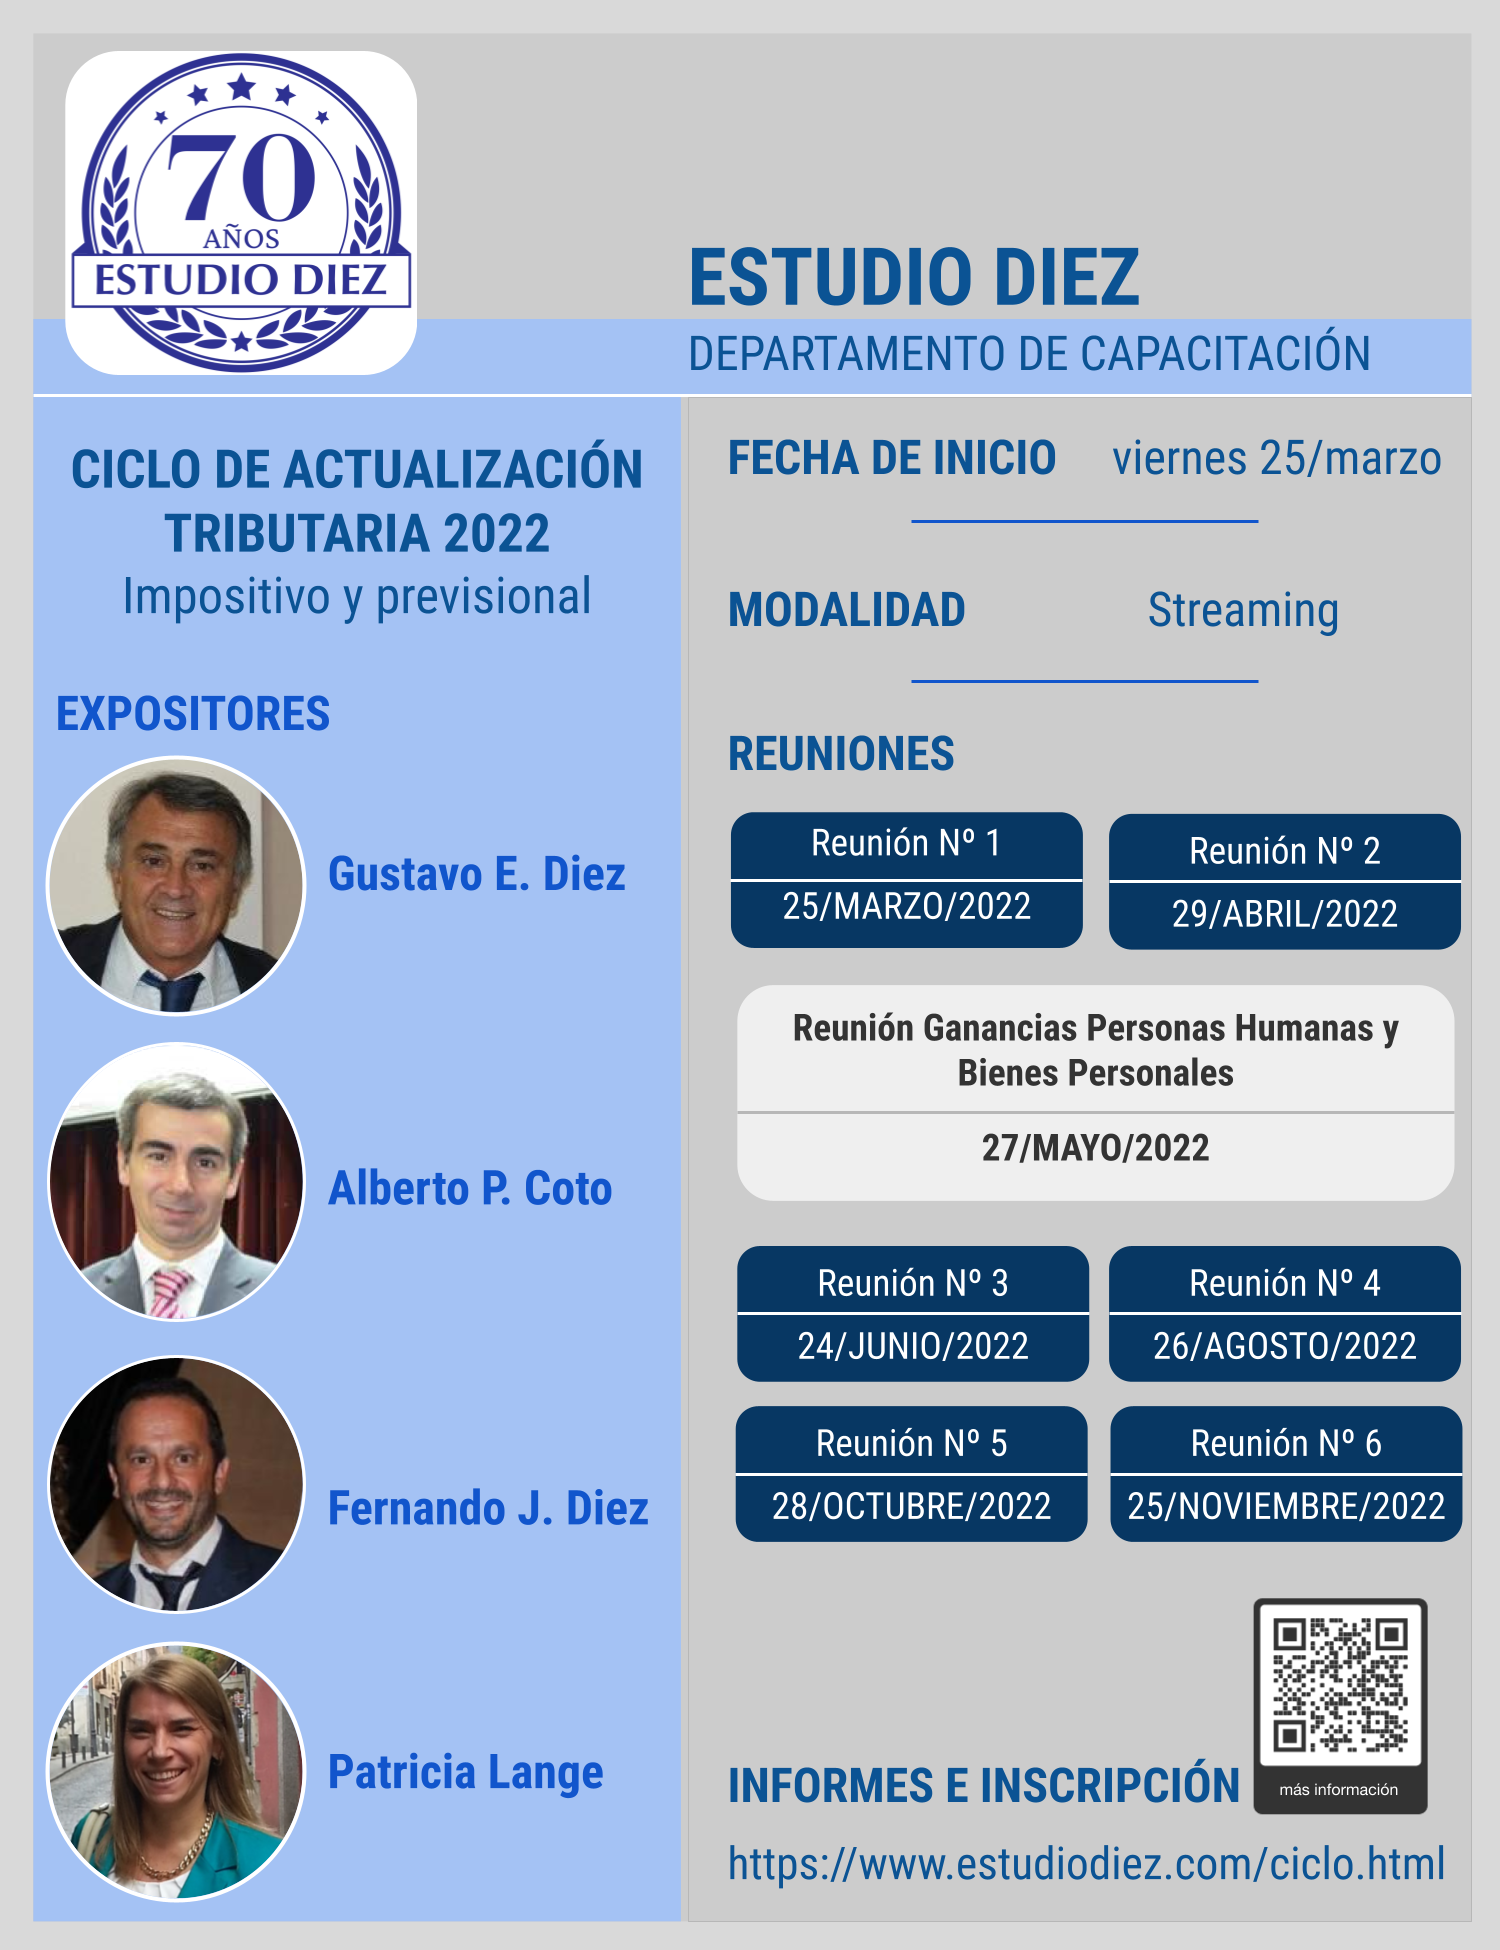
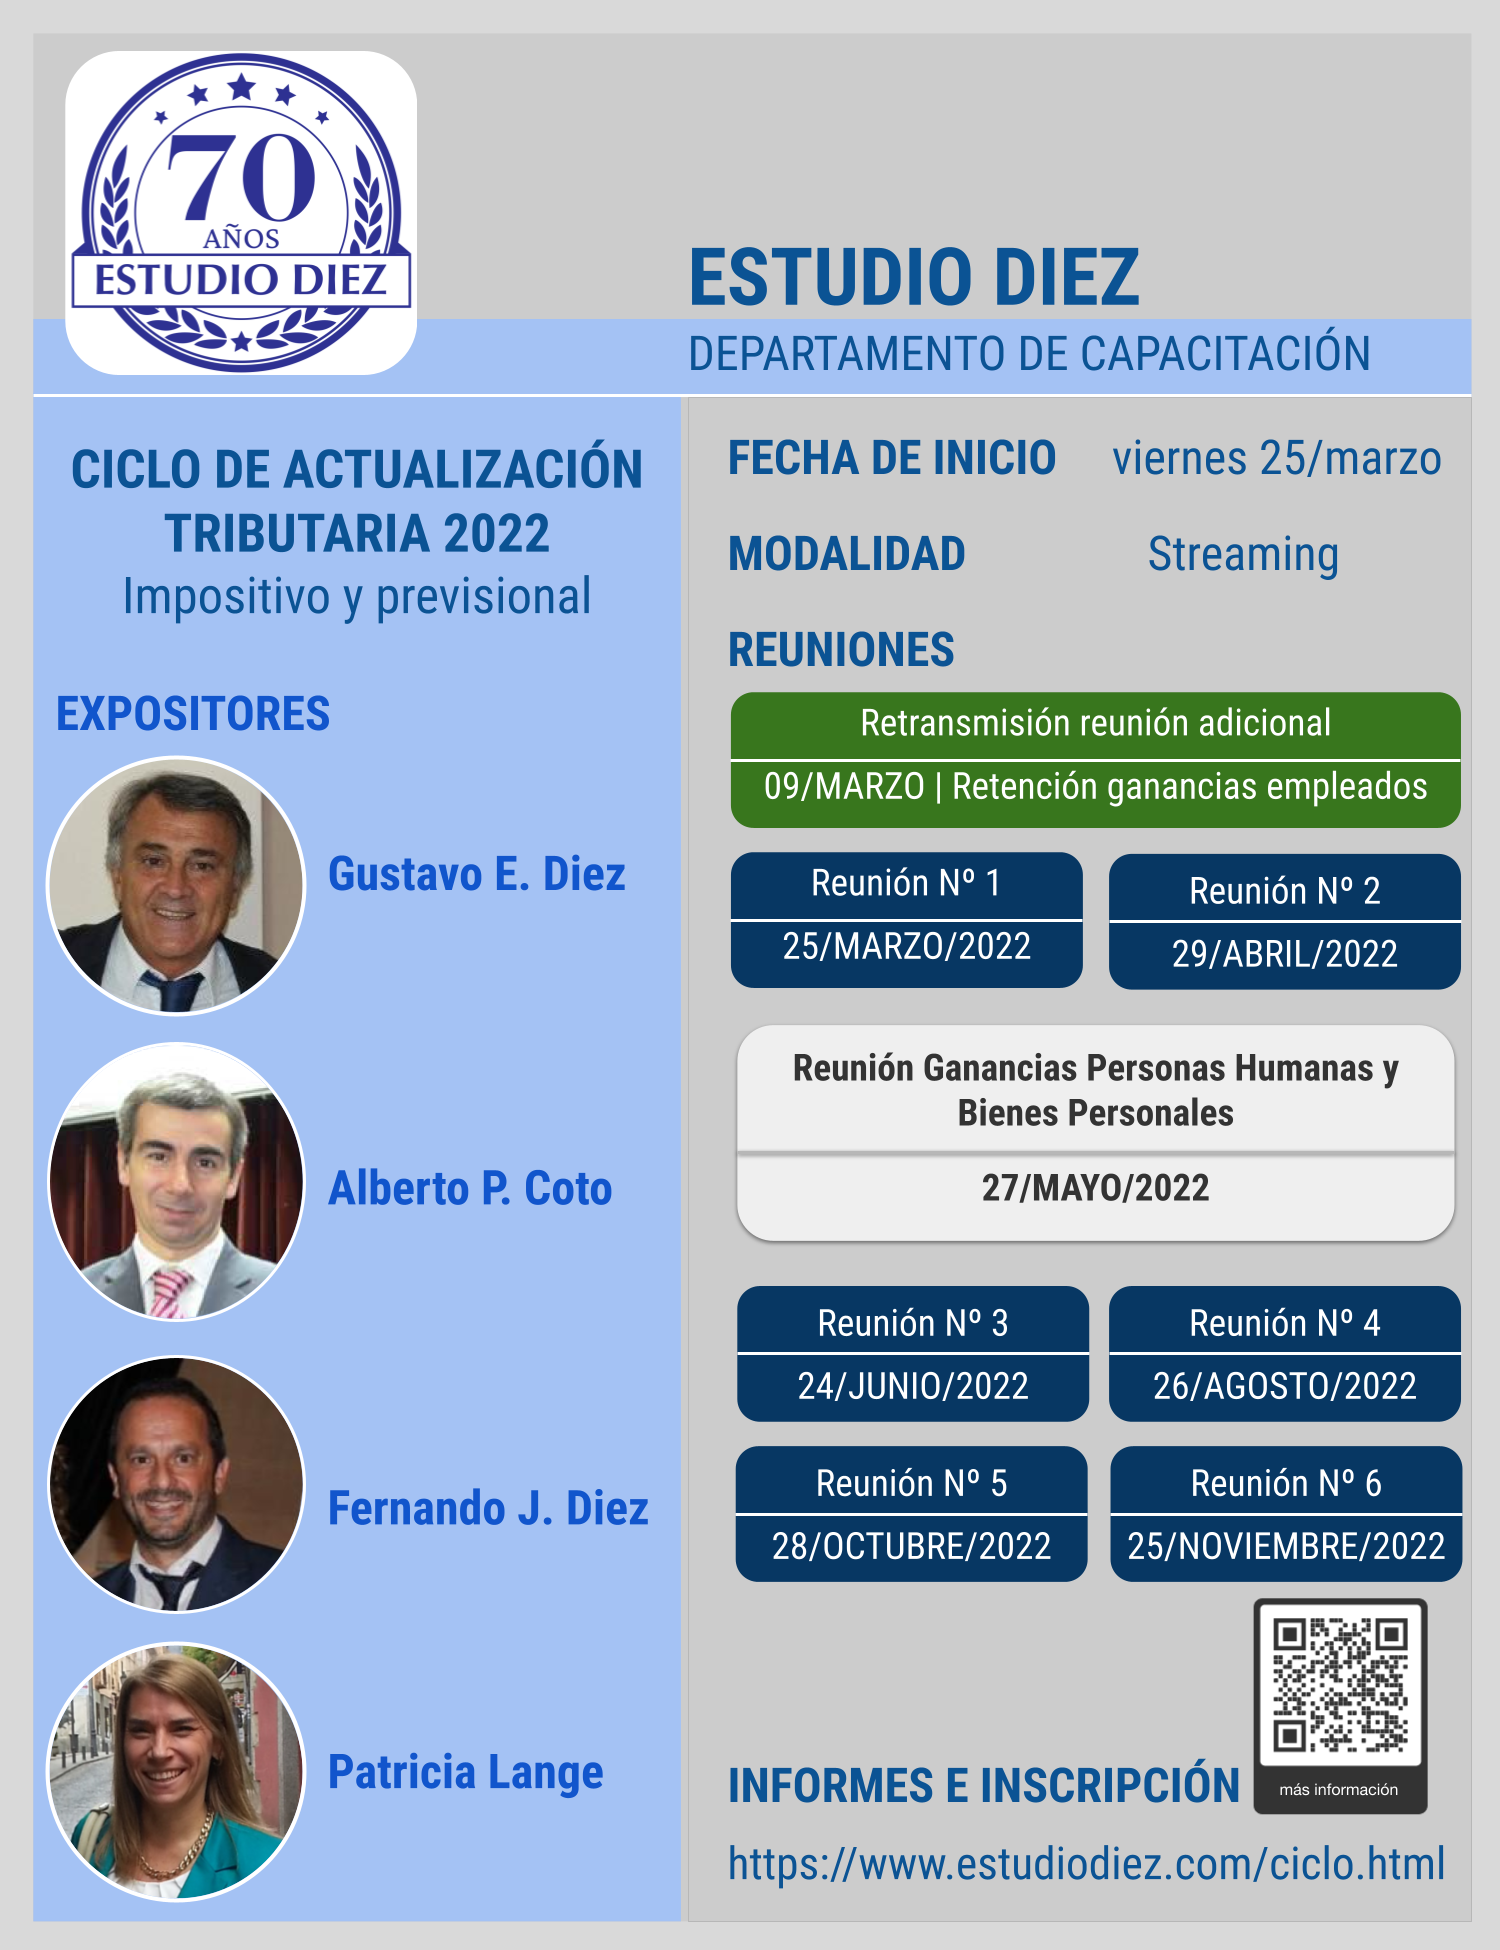
Fin reunión adicional 09-marzo-2022

Changed region(s): [[0.46, 0.2769, 0.9813, 0.8308]]

diff --git a/suscriptores-streaming.html b/suscriptores-streaming.html
@@ -221,18 +221,18 @@ firebase.auth().setPersistence(firebase.auth.Auth.Persistence.SESSION)
       <div class="toast-header">
       <svg class="bd-placeholder-img rounded me-2 mb-1" width="20" height="20" xmlns="http://www.w3.org/2000/svg" aria-hidden="true" preserveAspectRatio="xMidYMid slice" focusable="false"><rect width="100%" height="100%" fill="#28a745"></rect></svg>
       <strong class="me-auto text-success">&nbsp; Ciclo 2022</strong>
-      <small>#25/mar/22 | #26/mar/22</small>
+      <!-- <small>#25/mar/22 | #26/mar/22</small> -->
       </div>
       <div class="toast-body h3-a">
-      <b>Transmitiendo 1º reunión - Ciclo 2022.</b>
-      <!-- <div class="row">
+      <!-- <b>Transmitiendo 1º reunión - Ciclo 2022.</b> -->
+      <div class="row">
       <div class="col-lg-8">
       <b>Abierta la inscripción <br> Ciclo 2022</b>
       </div>
       <div class="col-lg-4 mt-auto">
         <a href="ciclo.html" target="blank_" <button type="button" class="d-flex justify-content-center btn btn-outline-success btn-sm">ver</button></a>
       </div>
-    </div> row -->
+    </div>
       </div>
     </div>
 

diff --git a/suscriptores.html b/suscriptores.html
@@ -143,9 +143,9 @@ background-size: cover;
                       <h5 class="card-title">Ciclo de Actualización Tributaria 2022</h5>
                       <p class="card-text text-light">viernes y sábado | <i class="bi bi-clock-fill"></i> las 24 hs.</p>
                     </div>
-                    <!-- <div class="card-footer border-white">
+                    <div class="card-footer border-white">
                     Abierta la inscripción <a href="ciclo.html"><button type="button" class="btn btn-warning btn-sm">Ciclo 2022</button></a>
-                  </div> -->
+                  </div>
                   </div>
                   <!-- FIN PRÓXIMA REUNIÓN -->
 
